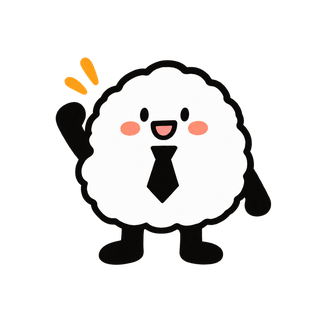
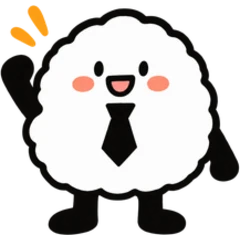
design: 마스코트 그림 여백을 잘라 크기를 맞추고 찜·쿠폰·사용 내역 빈 화면에 각각 다른 마스코트 표시

diff --git a/apps/user/src/features/login/LoginStatusScreen.tsx b/apps/user/src/features/login/LoginStatusScreen.tsx
@@ -1,3 +1,5 @@
+import { LoaderCircle } from 'lucide-react';
+
 import mascotError from '@user/assets/illustrations/mascot-error.webp';
 import mascotLoading from '@user/assets/illustrations/mascot-loading.webp';
 import Wordmark from '@user/ui/Wordmark/Wordmark';
@@ -7,93 +9,57 @@ import KakaoLoginButton from './KakaoLoginButton';
 export const loginScreenClassName =
   'mx-auto flex min-h-dvh max-w-mobile flex-col bg-bg-page px-page pt-3 pb-[max(16px,env(safe-area-inset-bottom))]';
 
-// 로그인 중 점 세 개가 차례로 깜빡이도록 시작을 조금씩 늦춘다
-const loadingDotDelays = [
-  '[animation-delay:0ms]',
-  '[animation-delay:200ms]',
-  '[animation-delay:400ms]',
-];
-
 interface LoginStatusScreenProps {
   status: 'loading' | 'error';
   onRetry: () => void;
 }
 
-// 카카오 로그인 중과 실패 화면. 로그인 버튼을 누른 직후와 카카오에서 돌아온 뒤에 함께 쓴다
+// 카카오 로그인 중과 실패 화면
+// 로그인 중은 카카오에서 돌아와 서버가 로그인을 마치는 동안만 보인다. 버튼을 누른 직후에는 로그인 화면의 버튼만 로딩으로 바뀐다
+// 로고는 로그인 화면과 같은 왼쪽 위에 두어 화면이 바뀔 때 들썩이지 않게 하고,
+// 마스코트와 글자 크기는 빈 화면(EmptyState)과 같게 맞춘다 (마스코트 80px, 제목 16px, 설명 13px)
 const LoginStatusScreen = ({ onRetry, status }: LoginStatusScreenProps) => {
-  // 로그인 중 화면은 잠깐 지나가므로 글은 작은 상태 문구 한 줄만 두고, 떠다니는 마스코트와 점으로 진행 중임을 보여준다
-  // 움직임 줄이기 설정을 켠 사용자에게는 모두 멈춘 모습으로 보여준다
-  if (status === 'loading') {
-    return (
-      <main className={loginScreenClassName}>
-        <Wordmark className="mt-7 text-center" />
-        <div className="flex flex-1 flex-col items-center justify-center py-6">
-          <img
-            alt=""
-            className="size-40 animate-float motion-reduce:animate-none"
-            height={160}
-            src={mascotLoading}
-            width={160}
-          />
-          {/* 그림 아래쪽 여백만큼 끌어올려 마스코트 발밑에 둔다 */}
-          <div
-            aria-hidden="true"
-            className="-mt-7 h-2 w-16 animate-float-shadow rounded-full bg-text-primary/10 motion-reduce:animate-none"
-          />
-          {/* 화면 읽기 프로그램이 로그인 진행을 바로 읽도록 알린다 */}
-          <h1
-            aria-live="polite"
-            className="mt-6 text-h3-mobile font-semibold text-text-primary"
-          >
-            카카오로 로그인 중이에요
-          </h1>
-          <div aria-hidden="true" className="mt-3 flex gap-1.5">
-            {loadingDotDelays.map((delay) => (
-              <span
-                className={`size-1.5 animate-dot-blink rounded-full bg-action-primary motion-reduce:animate-none ${delay}`}
-                key={delay}
-              />
-            ))}
-          </div>
-        </div>
-      </main>
-    );
-  }
+  const isLoading = status === 'loading';
 
   return (
     <main className={loginScreenClassName}>
-      <Wordmark className="mt-7 text-center" />
-      {/* 버튼 위 남는 공간의 세로 가운데에 마스코트와 안내 문구를 둔다. 로그인 중 화면과 같은 크기로 맞추되 움직이지는 않는다 */}
-      <div className="flex flex-1 flex-col items-center justify-center py-6">
+      <Wordmark />
+      {/* 정확한 가운데는 눈에 조금 아래로 보여서, 아래 여백을 더 주어 묶음을 살짝 위로 올린다 */}
+      <div className="flex flex-1 flex-col items-center justify-center pt-6 pb-20 text-center">
         <img
           alt=""
-          className="size-40"
-          height={160}
-          src={mascotError}
-          width={160}
+          className="size-20"
+          height={80}
+          src={isLoading ? mascotLoading : mascotError}
+          width={80}
         />
-        {/* 그림 아래쪽 여백만큼 끌어올려 마스코트 발밑에 둔다. 실패 그림은 아래 여백이 로그인 중 그림보다 좁다 */}
-        <div
-          aria-hidden="true"
-          className="-mt-5 h-2 w-16 rounded-full bg-text-primary/10"
-        />
-        {/* 화면 읽기 프로그램이 로그인 실패를 바로 읽도록 알린다 */}
-        <div aria-live="polite" className="mt-6 text-center">
-          {/* 로그인 중 화면에서 그 자리 그대로 바뀌므로 제목 크기와 색을 같게 둔다 */}
-          <h1 className="text-h3-mobile font-semibold text-text-primary">
-            로그인하지 못했어요
+        {/* 화면 읽기 프로그램이 로그인 진행과 실패를 바로 읽도록 알린다 */}
+        <div aria-live="polite" className="mt-4">
+          <h1 className="text-h3-mobile font-bold text-text-primary">
+            {isLoading ? '로그인하고 있어요' : '로그인하지 못했어요'}
           </h1>
-          {/* 제목(17px)과 크기 차이가 작으면 설명이 제목만큼 무거워 보여 캡션 크기로 둔다 */}
-          <p className="mt-2 text-caption-mobile leading-snug text-text-secondary">
-            네트워크 상태를 확인한 뒤
-            <br />
-            다시 시도해 주세요
-          </p>
+          {isLoading ? (
+            // 잠깐 지나가는 화면이라 글은 한 줄만 두고, 잘 보이는 주황 로딩 표시로 진행 중임을 알린다
+            <LoaderCircle
+              aria-hidden="true"
+              className="mx-auto mt-3 size-5 animate-spin text-action-primary motion-reduce:animate-none"
+            />
+          ) : (
+            <p className="mt-1.5 text-body-sm-mobile text-text-secondary">
+              네트워크 상태를 확인한 뒤 다시 시도해 주세요
+            </p>
+          )}
         </div>
       </div>
-      <KakaoLoginButton onClick={onRetry}>
-        카카오로 다시 시도하기
-      </KakaoLoginButton>
+      {/* 실패하면 로그인 화면과 같은 자리에 다시 시도 버튼을 둔다
+          로그인 중에도 버튼 높이만큼 빈칸을 두어, 실패로 바뀔 때 마스코트가 위로 들썩이지 않게 한다 */}
+      {isLoading ? (
+        <div aria-hidden="true" className="h-13" />
+      ) : (
+        <KakaoLoginButton onClick={onRetry}>
+          카카오로 다시 시도하기
+        </KakaoLoginButton>
+      )}
     </main>
   );
 };

diff --git a/apps/user/src/features/login/KakaoLoginButton.tsx b/apps/user/src/features/login/KakaoLoginButton.tsx
@@ -1,15 +1,38 @@
 import type { ButtonHTMLAttributes } from 'react';
+import { LoaderCircle } from 'lucide-react';
+
+interface KakaoLoginButtonProps extends ButtonHTMLAttributes<HTMLButtonElement> {
+  // 카카오로 넘어가는 중. 화면을 바꾸지 않고 버튼만 도는 아이콘과 문구로 바꿔 눌린 걸 보여준다
+  loading?: boolean;
+}
 
 const KakaoLoginButton = ({
+  children,
+  disabled,
+  loading = false,
   type = 'button',
   ...props
-}: ButtonHTMLAttributes<HTMLButtonElement>) => {
+}: KakaoLoginButtonProps) => {
   return (
     <button
+      aria-busy={loading}
       className="flex h-13 w-full items-center justify-center gap-2 rounded-lg bg-kakao text-body-sm-mobile font-bold text-on-kakao focus-visible:outline-2 focus-visible:outline-offset-2 focus-visible:outline-action-primary disabled:cursor-not-allowed disabled:opacity-60"
+      disabled={disabled || loading}
       type={type}
       {...props}
-    />
+    >
+      {loading ? (
+        <>
+          <LoaderCircle
+            aria-hidden="true"
+            className="size-4 animate-spin motion-reduce:animate-none"
+          />
+          카카오로 이동 중이에요
+        </>
+      ) : (
+        children
+      )}
+    </button>
   );
 };
 

diff --git a/apps/user/src/features/login/LoginStep.tsx b/apps/user/src/features/login/LoginStep.tsx
@@ -59,7 +59,9 @@ const LoginStep = () => {
     }
   };
 
-  if (status === 'idle') {
+  // 버튼을 누른 뒤 카카오로 넘어가기까지는 화면을 바꾸지 않고 버튼만 로딩으로 바꾼다
+  // 화면 전체를 로그인 중 화면으로 바꾸면 1초도 안 되는 사이 화면이 깜빡여 보인다
+  if (status !== 'error') {
     return (
       <main className={loginScreenClassName}>
         <Wordmark />
@@ -90,7 +92,10 @@ const LoginStep = () => {
               <FeedbackToast message="탈퇴했어요 · 그동안 이용해 주셔서 고마워요" />
             </div>
           )}
-          <KakaoLoginButton onClick={handleLogin}>
+          <KakaoLoginButton
+            loading={status === 'loading'}
+            onClick={handleLogin}
+          >
             카카오로 10초 만에 시작하기
           </KakaoLoginButton>
           <p className="text-caption-mobile text-text-tertiary">
@@ -101,7 +106,7 @@ const LoginStep = () => {
     );
   }
 
-  return <LoginStatusScreen onRetry={handleLogin} status={status} />;
+  return <LoginStatusScreen onRetry={handleLogin} status="error" />;
 };
 
 export default LoginStep;

diff --git a/apps/user/src/index.css b/apps/user/src/index.css
@@ -52,39 +52,6 @@
     }
   }
 
-  /* 기다리는 동안 마스코트가 위아래로 천천히 떠다니는 움직임 */
-  --animate-float: float 1.6s ease-in-out infinite;
-
-  @keyframes float {
-    50% {
-      transform: translateY(-8px);
-    }
-  }
-
-  /* 떠다니는 마스코트 아래 그림자. 마스코트가 올라가면 작고 흐려진다 (float와 같은 박자) */
-  --animate-float-shadow: float-shadow 1.6s ease-in-out infinite;
-
-  @keyframes float-shadow {
-    50% {
-      opacity: 0.5;
-      transform: scaleX(0.75);
-    }
-  }
-
-  /* 진행 중임을 알리는 점이 차례로 깜빡이는 움직임 */
-  --animate-dot-blink: dot-blink 1.2s ease-in-out infinite;
-
-  @keyframes dot-blink {
-    0%,
-    80%,
-    100% {
-      opacity: 0.25;
-    }
-    40% {
-      opacity: 1;
-    }
-  }
-
   /* 튜토리얼에서 다음 장이 오른쪽에서 밀려 들어오는 움직임 */
   --animate-slide-in: slide-in 0.3s ease-out both;
 

diff --git a/apps/user/src/features/coupon/AvailableCoupons.tsx b/apps/user/src/features/coupon/AvailableCoupons.tsx
@@ -5,7 +5,7 @@ import { QrCode } from 'lucide-react';
 
 import { ApiError } from '@user/api/client';
 import { type Coupon, deleteCoupon, fetchCoupons } from '@user/api/coupon';
-import mascotEmpty from '@user/assets/illustrations/mascot-empty.webp';
+import mascotCouponEmpty from '@user/assets/illustrations/mascot-coupon-empty.webp';
 import { useDelayedLoading } from '@user/hooks/useDelayedLoading';
 import ActionButton from '@user/ui/ActionButton/ActionButton';
 import EmptyState from '@user/ui/EmptyState/EmptyState';
@@ -108,7 +108,7 @@ const AvailableCoupons = () => {
     return (
       <EmptyState
         description="찜한 포스터는 11:00부터 찜 목록에서 받을 수 있어요"
-        image={mascotEmpty}
+        image={mascotCouponEmpty}
         title="사용 가능한 쿠폰이 없어요"
       >
         <ActionButton onClick={() => navigate('/swipe')}>

diff --git a/apps/user/src/features/wishlist/WishlistEmpty.tsx b/apps/user/src/features/wishlist/WishlistEmpty.tsx
@@ -1,6 +1,6 @@
 import { useNavigate } from 'react-router';
 
-import mascotEmpty from '@user/assets/illustrations/mascot-empty.webp';
+import mascotWishEmpty from '@user/assets/illustrations/mascot-wish-empty.webp';
 import ActionButton from '@user/ui/ActionButton/ActionButton';
 import EmptyState from '@user/ui/EmptyState/EmptyState';
 
@@ -11,7 +11,7 @@ const WishlistEmpty = () => {
   return (
     <EmptyState
       description="스와이프에서 마음에 드는 포스터를 찜해 보세요"
-      image={mascotEmpty}
+      image={mascotWishEmpty}
       title="아직 찜한 캠페인이 없어요"
     >
       <ActionButton onClick={() => navigate('/swipe')}>

diff --git a/apps/user/src/features/coupon/CouponHistory.tsx b/apps/user/src/features/coupon/CouponHistory.tsx
@@ -6,7 +6,7 @@ import {
   type CouponFilter,
   fetchCouponSummary,
 } from '@user/api/coupon';
-import mascotEmpty from '@user/assets/illustrations/mascot-empty.webp';
+import mascotHistoryEmpty from '@user/assets/illustrations/mascot-history-empty.webp';
 import { useDelayedLoading } from '@user/hooks/useDelayedLoading';
 import EmptyState from '@user/ui/EmptyState/EmptyState';
 
@@ -131,7 +131,7 @@ const CouponHistory = () => {
     return (
       <EmptyState
         description="쿠폰을 사용하면 여기에 기록돼요"
-        image={mascotEmpty}
+        image={mascotHistoryEmpty}
         title="아직 사용 내역이 없어요"
       />
     );

diff --git a/apps/user/src/ui/EmptyState/EmptyState.tsx b/apps/user/src/ui/EmptyState/EmptyState.tsx
@@ -21,7 +21,8 @@ const EmptyState = ({
   return (
     // 정확한 가운데는 눈에 조금 아래로 보여서, 아래 여백을 더 주어 묶음을 살짝 위로 올린다
     <section className="flex flex-1 flex-col items-center justify-center px-page pt-6 pb-20 text-center">
-      <img alt="" className="size-28" height={112} src={image} width={112} />
+      {/* 마스코트 그림은 여백 없이 잘라 두어서 상자 크기가 곧 마스코트 크기다 */}
+      <img alt="" className="size-20" height={80} src={image} width={80} />
       <h2 className="mt-4 text-h3-mobile font-bold text-text-primary">
         {title}
       </h2>
